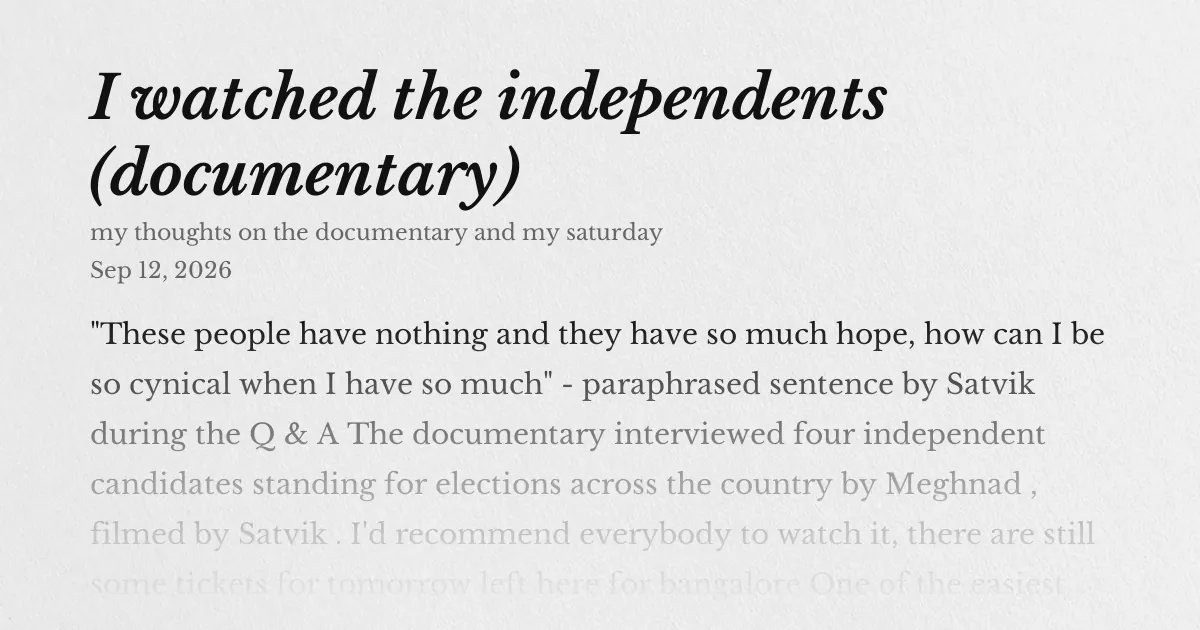
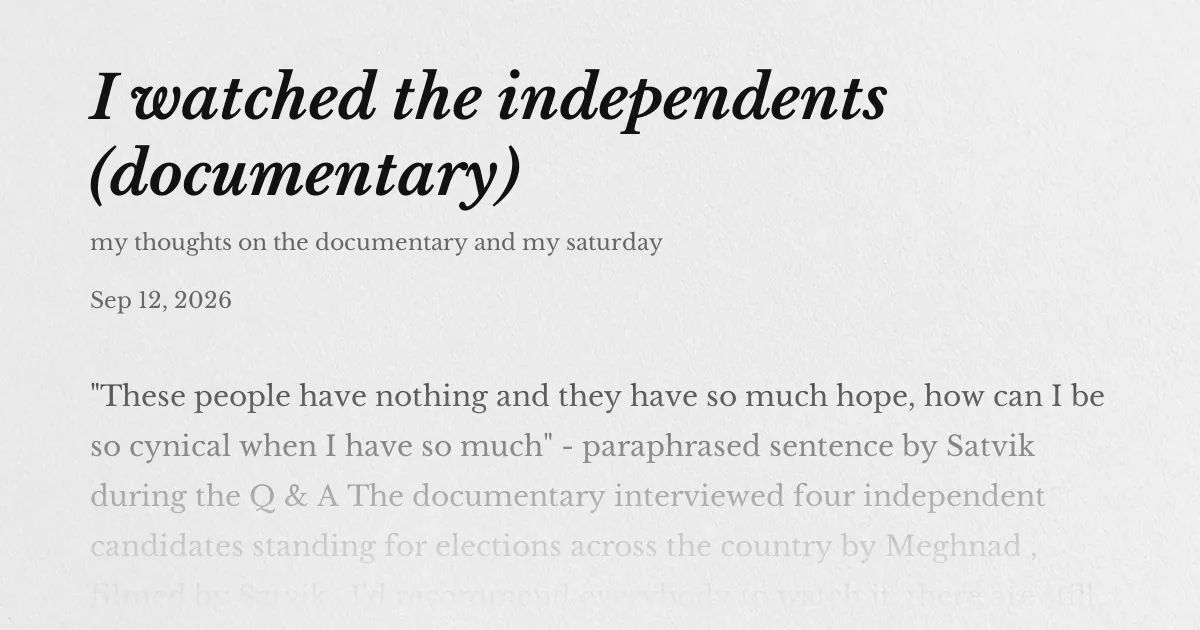
add og link previews

Changed region(s): [[0.0617, 0.573, 0.925, 0.7238], [0.0617, 0.754, 0.925, 0.8746], [0.0617, 0.3619, 0.925, 0.573]]

diff --git a/blogging/og.py b/blogging/og.py
@@ -104,7 +104,7 @@ def make_og_image(slug, title, description, date_long, excerpt):
     for ln in _wrap(d, title, title_font, text_w)[:2]:
         d.text((pad, y), ln, font=title_font, fill=INK + (255,))
         y += 76
-    y += 6
+    y += 16
 
     meta_font = _font(FONT_REG, 22, 300)
     for line in (description, date_long):
@@ -113,8 +113,8 @@ def make_og_image(slug, title, description, date_long, excerpt):
         for ln in _wrap(d, line, meta_font, text_w)[:2]:
             d.text((pad, y), ln, font=meta_font, fill=MUTED + (255,))
             y += 32
-        y += 6
-    y += 22
+        y += 26
+    y += 34
 
     body_font = _font(FONT_REG, 28, 300)
     for ln in _wrap(d, excerpt, body_font, text_w):
